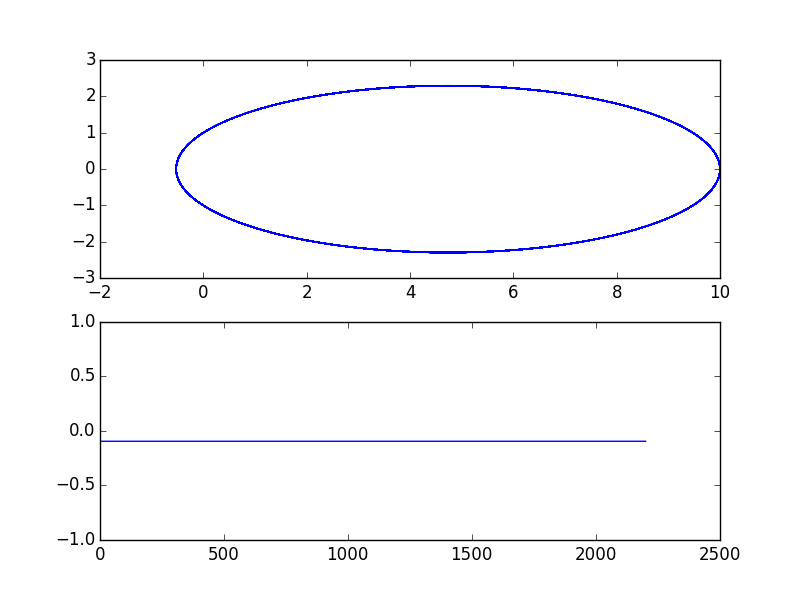
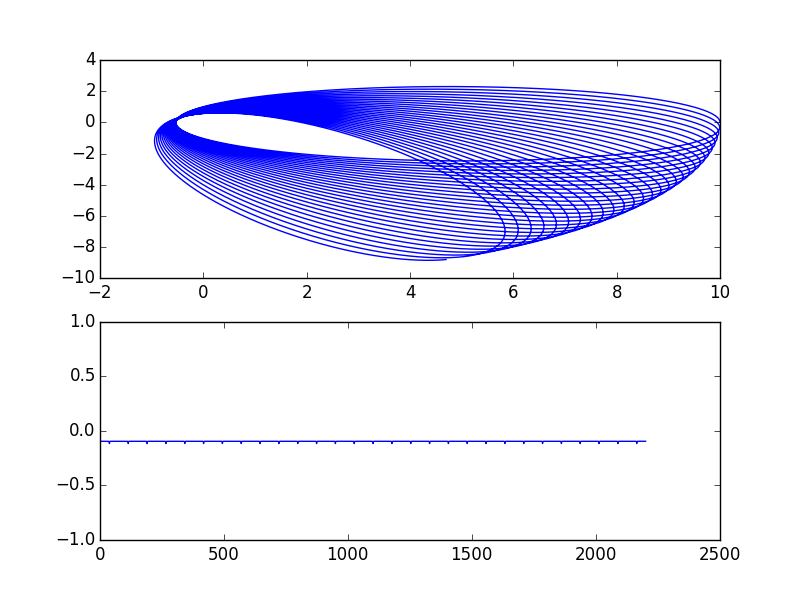
se corrigue alpha, con self.alpha

diff --git a/planeta.py b/planeta.py
@@ -40,10 +40,10 @@ class Planeta(object):
         #yo hice esto
         G=1
         M=1
-        alpha=0
+
         r=(x**2+y**2)**(0.5)
-        fx= -x*( G*M/r**3 - 2*alpha*G*M/r**4)
-        fy= -y*( G*M/r**3 - 2*alpha*G*M/r**4)
+        fx= -x*( G*M/r**3 - 2*self.alpha*G*M/r**4)
+        fy= -y*( G*M/r**3 - 2*self.alpha*G*M/r**4)
 
         return [vx, vy, fx, fy]
 
@@ -72,16 +72,16 @@ class Planeta(object):
         x0,y0,vx0,vy0=self.y_actual
 
         #cada vez que se calcula un Ki, se recalcula y_actual para calcular Ki+1
-        k1=[self.ec_de_mov()[0],self.ec_de_mov()[1],self.ec_de_mov()[2],self.ec_de_mov()[3]]
-        self.y_actual=[x0+k1[0]/2. , y0+k1[1]/2. , vx0+k1[2]/2., vy0+k1[3]/2.]
+        k1=self.ec_de_mov()
+        self.y_actual=[x0+dt*k1[0]/2. , y0+dt*k1[1]/2. , vx0+dt*k1[2]/2., vy0+dt*k1[3]/2.]
 
-        k2=[self.ec_de_mov()[0],self.ec_de_mov()[1],self.ec_de_mov()[2],self.ec_de_mov()[3]]
-        self.y_actual=[x0+k2[0]/2. , y0+k2[1]/2. , vx0+k2[2]/2., vy0+k2[3]/2.]
+        k2=self.ec_de_mov()
+        self.y_actual=[x0+dt*k2[0]/2. , y0+dt*k2[1]/2. , vx0+dt*k2[2]/2., vy0+dt*k2[3]/2.]
 
-        k3=[self.ec_de_mov()[0],self.ec_de_mov()[1],self.ec_de_mov()[2],self.ec_de_mov()[3]]
-        self.y_actual=[x0+k3[0] , y0+k3[1] , vx0+k3[2], vy0+k3[3]]
+        k3=self.ec_de_mov()
+        self.y_actual=[x0+dt*k3[0] , y0+dt*k3[1] , vx0+dt*k3[2], vy0+dt*k3[3]]
 
-        k4=[self.ec_de_mov()[0],self.ec_de_mov()[1],self.ec_de_mov()[2],self.ec_de_mov()[3]]
+        k4=self.ec_de_mov()
 
         x_new=x0+(1/6.)*dt*(k1[0]+2*k2[0]+2*k3[0]+k4[0])
         y_new=y0+(1/6.)*dt*(k1[1]+2*k2[1]+2*k3[1]+k4[1])

diff --git a/alpha_distinto_de_cero.py b/alpha_distinto_de_cero.py
@@ -4,7 +4,7 @@ import matplotlib.pyplot as plt
 
 condicion_inicial = [10, 0, 0, 0.1]
 p = Planeta(condicion_inicial, 10**(-2.232))#RUT=18.769.232-6
-
+#p = Planeta(condicion_inicial)
 
 N_steps = np.int(1e6)
 dt=2200./N_steps
